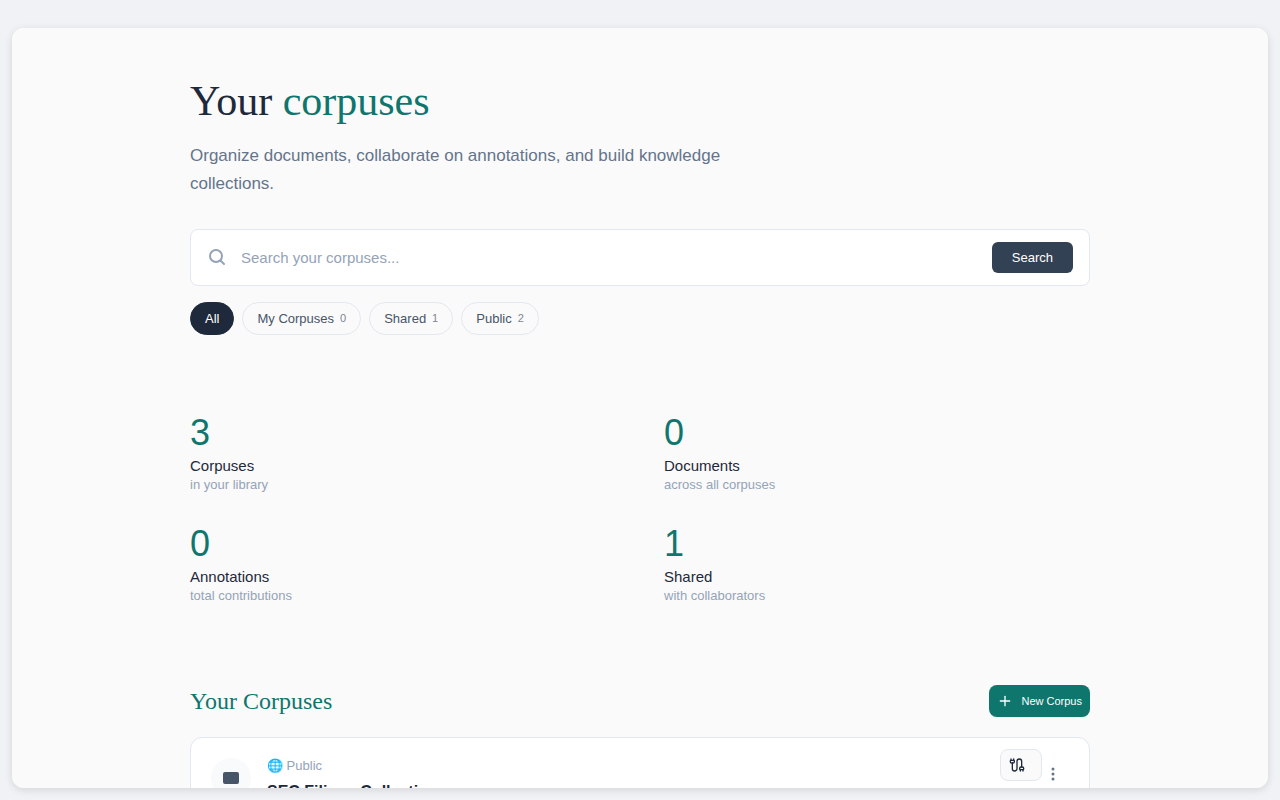
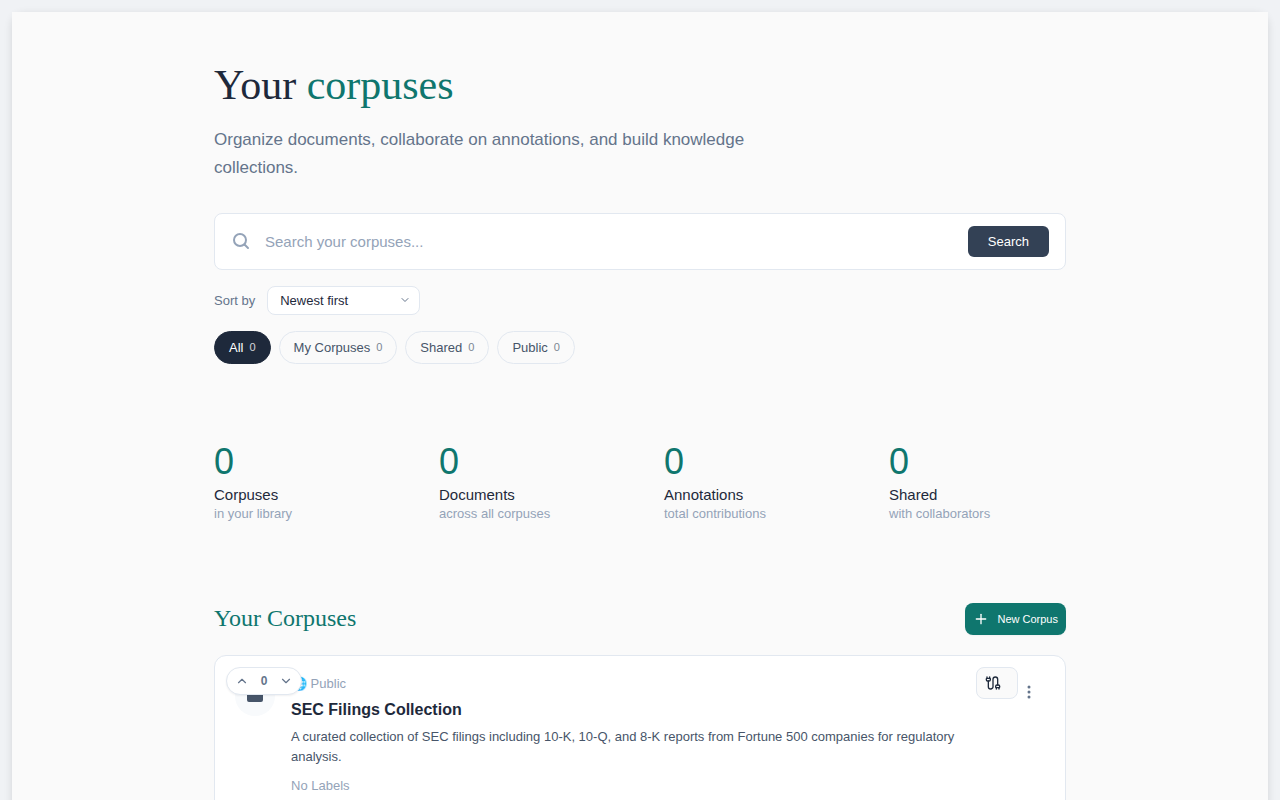
Address #1789 review: scope Top-sort personal exclusion, align Sort labels, fix CT mocks
- Backend: `CorpusFilter.filter_queryset` now only excludes
  `is_personal=True` from Top sorts on the discovery surface (when
  `mine` is not set). The 'My Corpuses' tab (mine=True) keeps personal
  corpora visible under every sort so users always see all their own
  content. Adds two regression tests covering both branches.
- Sort dropdown label drift: CHANGELOG referenced 'Controversial' but
  the dropdown ships as 'Most downvoted'. CHANGELOG aligned to the
  shipping label (kept; matches the CT assertion).
- CorpusNavigationScreenshots CT mocks were stale after the default
  sort changed to '-created' — the actual query now sends
  `{ orderBy: '-created' }` and the empty-vars / textSearch='' mocks
  no longer matched. Added the matching mock and seeded the new vote
  fields (upvoteCount/downvoteCount/score/myVote) on the test corpus.

diff --git a/frontend/tests/CorpusNavigationScreenshots.ct.tsx b/frontend/tests/CorpusNavigationScreenshots.ct.tsx
@@ -57,6 +57,10 @@ const navCorpus: CorpusType = {
   labelSet: null,
   allowComments: true,
   preferredEmbedder: null,
+  upvoteCount: 0,
+  downvoteCount: 0,
+  score: 0,
+  myVote: null,
   myPermissions: [
     "update_corpus",
     "read_corpus",
@@ -328,6 +332,33 @@ const discoveryMocks: MockedResponse[] = [
  * -------------------------------------------------------------------------- */
 
 const corpusListMocks: MockedResponse[] = [
+  // The Corpuses view memoizes its variables from corpusListSort (default
+  // "-created"), so the actual query sent on first render is
+  // `{ orderBy: "-created" }`. We also keep the bare-variables and
+  // textSearch="" variants because legacy callers/refetches may shed the
+  // sort variable.
+  {
+    request: { query: GET_CORPUSES, variables: { orderBy: "-created" } },
+    result: {
+      data: {
+        corpuses: {
+          edges: [
+            { node: navCorpus, __typename: "CorpusTypeEdge" },
+            { node: secondCorpus, __typename: "CorpusTypeEdge" },
+            { node: thirdCorpus, __typename: "CorpusTypeEdge" },
+          ],
+          pageInfo: {
+            hasNextPage: false,
+            hasPreviousPage: false,
+            startCursor: null,
+            endCursor: null,
+            __typename: "PageInfo",
+          },
+          __typename: "CorpusTypeConnection",
+        },
+      },
+    },
+  },
   {
     request: { query: GET_CORPUSES, variables: {} },
     result: {

diff --git a/opencontractserver/tests/test_corpus_voting.py b/opencontractserver/tests/test_corpus_voting.py
@@ -609,6 +609,53 @@ class CorpusVoteGraphQLTests(TransactionTestCase):
         self.assertEqual(result["data"]["corpus"]["myVote"], "UPVOTE")
         self.assertEqual(result["data"]["corpus"]["upvoteCount"], 1)
 
+    def test_top_sort_excludes_personal_corpus_on_discovery_surface(self) -> None:
+        """The ``orderBy: "top"`` discovery sort hides personal corpora.
+
+        Personal corpora are single-user singletons that have no meaningful
+        ranking against shared content, so the filter strips them anywhere
+        the user is browsing the cross-user discovery surface (``mine`` is
+        not True). This pins the behavior end-to-end through graphene.
+        """
+        # A personal corpus is auto-created for every user by a signal
+        # handler — one per user is enforced by the
+        # ``one_personal_corpus_per_user`` constraint, so reuse alice's.
+        personal_corpus = Corpus.objects.get(
+            creator=self.alice, is_personal=True
+        )
+        query = """
+            query {
+                corpuses(orderBy: "-top") { edges { node { id } } }
+            }
+        """
+        request = self._build_request(self.alice)
+        result = self.client.execute(query, context_value=request)
+        self.assertIsNone(result.get("errors"), msg=json.dumps(result))
+        returned_ids = {edge["node"]["id"] for edge in result["data"]["corpuses"]["edges"]}
+        self.assertNotIn(_corpus_relay_id(personal_corpus.pk), returned_ids)
+
+    def test_top_sort_on_mine_tab_keeps_personal_corpus(self) -> None:
+        """The ``mine=True`` (My Corpuses) tab keeps personal corpora visible
+        even under a Top sort, so users always see all of their own content.
+
+        Regression test for the silent personal-corpus drop noted on PR #1789
+        review (the original filter excluded ``is_personal=True`` on every
+        Top-sorted query, including the user's own tab).
+        """
+        personal_corpus = Corpus.objects.get(
+            creator=self.alice, is_personal=True
+        )
+        query = """
+            query {
+                corpuses(orderBy: "-top", mine: true) { edges { node { id } } }
+            }
+        """
+        request = self._build_request(self.alice)
+        result = self.client.execute(query, context_value=request)
+        self.assertIsNone(result.get("errors"), msg=json.dumps(result))
+        returned_ids = {edge["node"]["id"] for edge in result["data"]["corpuses"]["edges"]}
+        self.assertIn(_corpus_relay_id(personal_corpus.pk), returned_ids)
+
     def test_corpuses_list_my_vote_is_not_n_plus_one(self) -> None:
         """The corpus list resolver must annotate ``my_vote`` with a single
         per-page ``Subquery`` rather than firing one query per card.

diff --git a/config/graphql/filters.py b/config/graphql/filters.py
@@ -228,9 +228,15 @@ class CorpusFilter(django_filters.FilterSet):
     def filter_queryset(self, queryset: QuerySet) -> QuerySet:
         qs = super().filter_queryset(queryset)
         # Personal corpuses are private singletons — they should not
-        # surface when the user explicitly asks for a Top sort.  Other
-        # sorts (default ``created`` ordering, ``-modified``, etc.) keep
-        # the existing behaviour so the My Corpuses tab still shows them.
+        # surface when the user is browsing shared/public content via a
+        # Top sort (ranking a single-user "My Documents" corpus against
+        # cross-user content is meaningless).  We scope the exclusion to
+        # the discovery surface only: when ``mine`` is explicitly True
+        # the user is on the "My Corpuses" tab and wants to see THEIR
+        # corpora — including the personal one — sorted by score.
+        # Otherwise (mine unset, isPublic=True, sharedWithMe=True, etc.)
+        # the personal corpus would be cross-ranked against other users'
+        # content and should drop out.
         #
         # graphene-django translates the GraphQL camelCase ``orderBy``
         # argument to the snake_case ``order_by`` filter name before it
@@ -238,7 +244,9 @@ class CorpusFilter(django_filters.FilterSet):
         # snake_case key.  ``self.data`` carries the raw alias ("top" /
         # "-top"); OrderingFilter doesn't mutate it in place when it
         # cleans the queryset.
-        if self.data.get("order_by") in ("top", "-top"):
+        if self.data.get("order_by") in ("top", "-top") and not self.data.get(
+            "mine"
+        ):
             qs = qs.exclude(is_personal=True)
         return qs
 

diff --git a/CHANGELOG.md b/CHANGELOG.md
@@ -15,9 +15,9 @@ and this project adheres to [Semantic Versioning](https://semver.org/spec/v2.0.0
   - **Service layer (`opencontractserver/corpuses/services/votes.py`)** — new `CorpusVoteService(BaseService)` exposes `cast_vote(user, corpus_pk, vote_type, *, session_key, ip_address, request)` and `remove_vote(...)`. Both call paths IDOR-gate via `BaseService.get_or_none` (the unified "Corpus not found or you do not have permission" message), block self-vote on the authenticated branch, and persist the anonymous branch through `session_key` with a salted-SHA256 `ip_hash` for audit only (NOT part of the unique constraint, so co-located voters behind a shared NAT can still vote). Wired into `corpuses/services/__init__.py` and re-exported.
   - **GraphQL mutations (`config/graphql/voting_mutations.py`)** — new `voteCorpus(corpusId, voteType)` and `removeCorpusVote(corpusId)` mutations. **Not decorated with `@login_required`** — anonymous voting is the whole point. The mutation lazily calls `session.save()` on first cast to materialise a `session_key` so subsequent votes from the same browser dedup correctly. Both mutations return the refreshed corpus row (with updated counts + `myVote`).
   - **GraphQL CorpusType (`config/graphql/corpus_types.py`)** — new `myVote` resolver returns `"UPVOTE" | "DOWNVOTE" | null` for the calling viewer, looking up by authenticated user when present and falling back to the request session key for anonymous viewers. The three new denormalized columns auto-expose as `upvoteCount` / `downvoteCount` / `score` via `DjangoObjectType` field auto-discovery.
-  - **GraphQL CorpusFilter (`config/graphql/filters.py`)** — new `order_by` `OrderingFilter` exposing `top` / `-top`, `created`, `-modified`, `title` GraphQL values. Top sort excludes `is_personal=True` corpora (personal "My Documents" corpora are private singletons that shouldn't rank against shared content).
+  - **GraphQL CorpusFilter (`config/graphql/filters.py`)** — new `order_by` `OrderingFilter` exposing `top` / `-top`, `created`, `-modified`, `title` GraphQL values. Top sort excludes `is_personal=True` corpora on the discovery surface (anywhere `mine` is not set) — personal "My Documents" corpora are private singletons that shouldn't cross-rank against shared content. The "My Corpuses" tab (`mine=True`) keeps personal corpora visible under every sort so users see all of their own content.
   - **Frontend (`frontend/src/components/corpuses/CorpusVoteWidget.tsx`)** — new lightweight up/down + score pill overlayed on the top-left of each corpus card. Optimistic update + Apollo `cache.modify` keep every corpus card on screen in sync after a vote without a refetch. Hidden on the user's own personal corpus.
-  - **Frontend sort UI (`frontend/src/components/corpuses/CorpusListView.tsx` + `frontend/src/views/Corpuses.tsx`)** — new "Sort by" dropdown next to the search box (Newest / Oldest / Recently updated / Top / Controversial / Title) wired to the `orderBy` GraphQL argument. The MCP share button remains top-right; vote widget is top-left.
+  - **Frontend sort UI (`frontend/src/components/corpuses/CorpusListView.tsx` + `frontend/src/views/Corpuses.tsx`)** — new "Sort by" dropdown next to the search box (Newest / Oldest / Recently updated / Top / Most downvoted / Title) wired to the `orderBy` GraphQL argument. The MCP share button remains top-right; vote widget is top-left.
   - **Frontend mutations + types (`frontend/src/graphql/mutations.ts`, `frontend/src/graphql/queries.ts`, `frontend/src/types/graphql-api.ts`)** — new `UPVOTE_CORPUS` / `DOWNVOTE_CORPUS` / `REMOVE_CORPUS_VOTE` mutations and `upvoteCount` / `downvoteCount` / `score` / `myVote` on `RawCorpusType`. `GET_CORPUSES` extended with `orderBy: String` and the four new fields.
   - **Tests (`opencontractserver/tests/test_corpus_voting.py`)** — `CorpusVoteServiceTests` covers auth + anonymous voting, self-vote block, IDOR-safe denial, vote switching, anonymous session dedup, and the "logged-in user cannot claim an anonymous vote" invariant. `CorpusVoteCountDenormalizationTests` (TransactionTestCase) pins the signal-driven count refresh. `CorpusVoteUniqueConstraintTests` pins both partial UNIQUE indexes. `CorpusVoteGraphQLTests` exercises the mutations end-to-end through the graphene schema (authenticated path, anonymous session-bootstrap path, self-vote block, IDOR-safe denial on malformed corpus id, and the `myVote` resolver), plus a `CaptureQueriesContext` regression test that pins the `my_vote` annotation contract — no per-card `SELECT FROM corpuses_corpusvote` queries are issued for a list page (N+1 fix from PR #1789 review).
   - **PR review fixes** (post-feature, on top of the bullets above): (a) `CorpusType.get_queryset` now annotates `_viewer_vote` via a single `Subquery` per page so `resolve_my_vote` reads the annotation instead of firing one `CorpusVote` query per card; (b) `voteCorpus` / `removeCorpusVote` route the post-vote corpus refresh through `BaseService.get_or_none` instead of a direct `Corpus.objects.get`, keeping CLAUDE.md rule 7 satisfied; the bare `assert result.value is not None` is replaced with a proper error-return branch so `python -O` cannot turn a corner-case service bug into a 500; (c) the default corpus-list sort changed from empty string ("default" = oldest-first per `Corpus.Meta.ordering`) to `-created` so the "Newest first" label is accurate; (d) `CorpusVoteWidget.stop` no longer calls `preventDefault` (the click handler only needs `stopPropagation` to keep the card's navigation onClick from firing); (e) `_client_ip` docstring spells out the `X-Forwarded-For` trust posture (audit-only — no abuse decisions); (f) `CorpusVote` model docstring documents that anonymous rows persist after `clearsessions` reaps the matching `Session` row (intentional, Reddit-style; counts stay accurate because the signal recomputes from scratch). `test_corpus_services_package.py` extended to expect `CorpusVoteService` in the `services/__all__` re-export.
